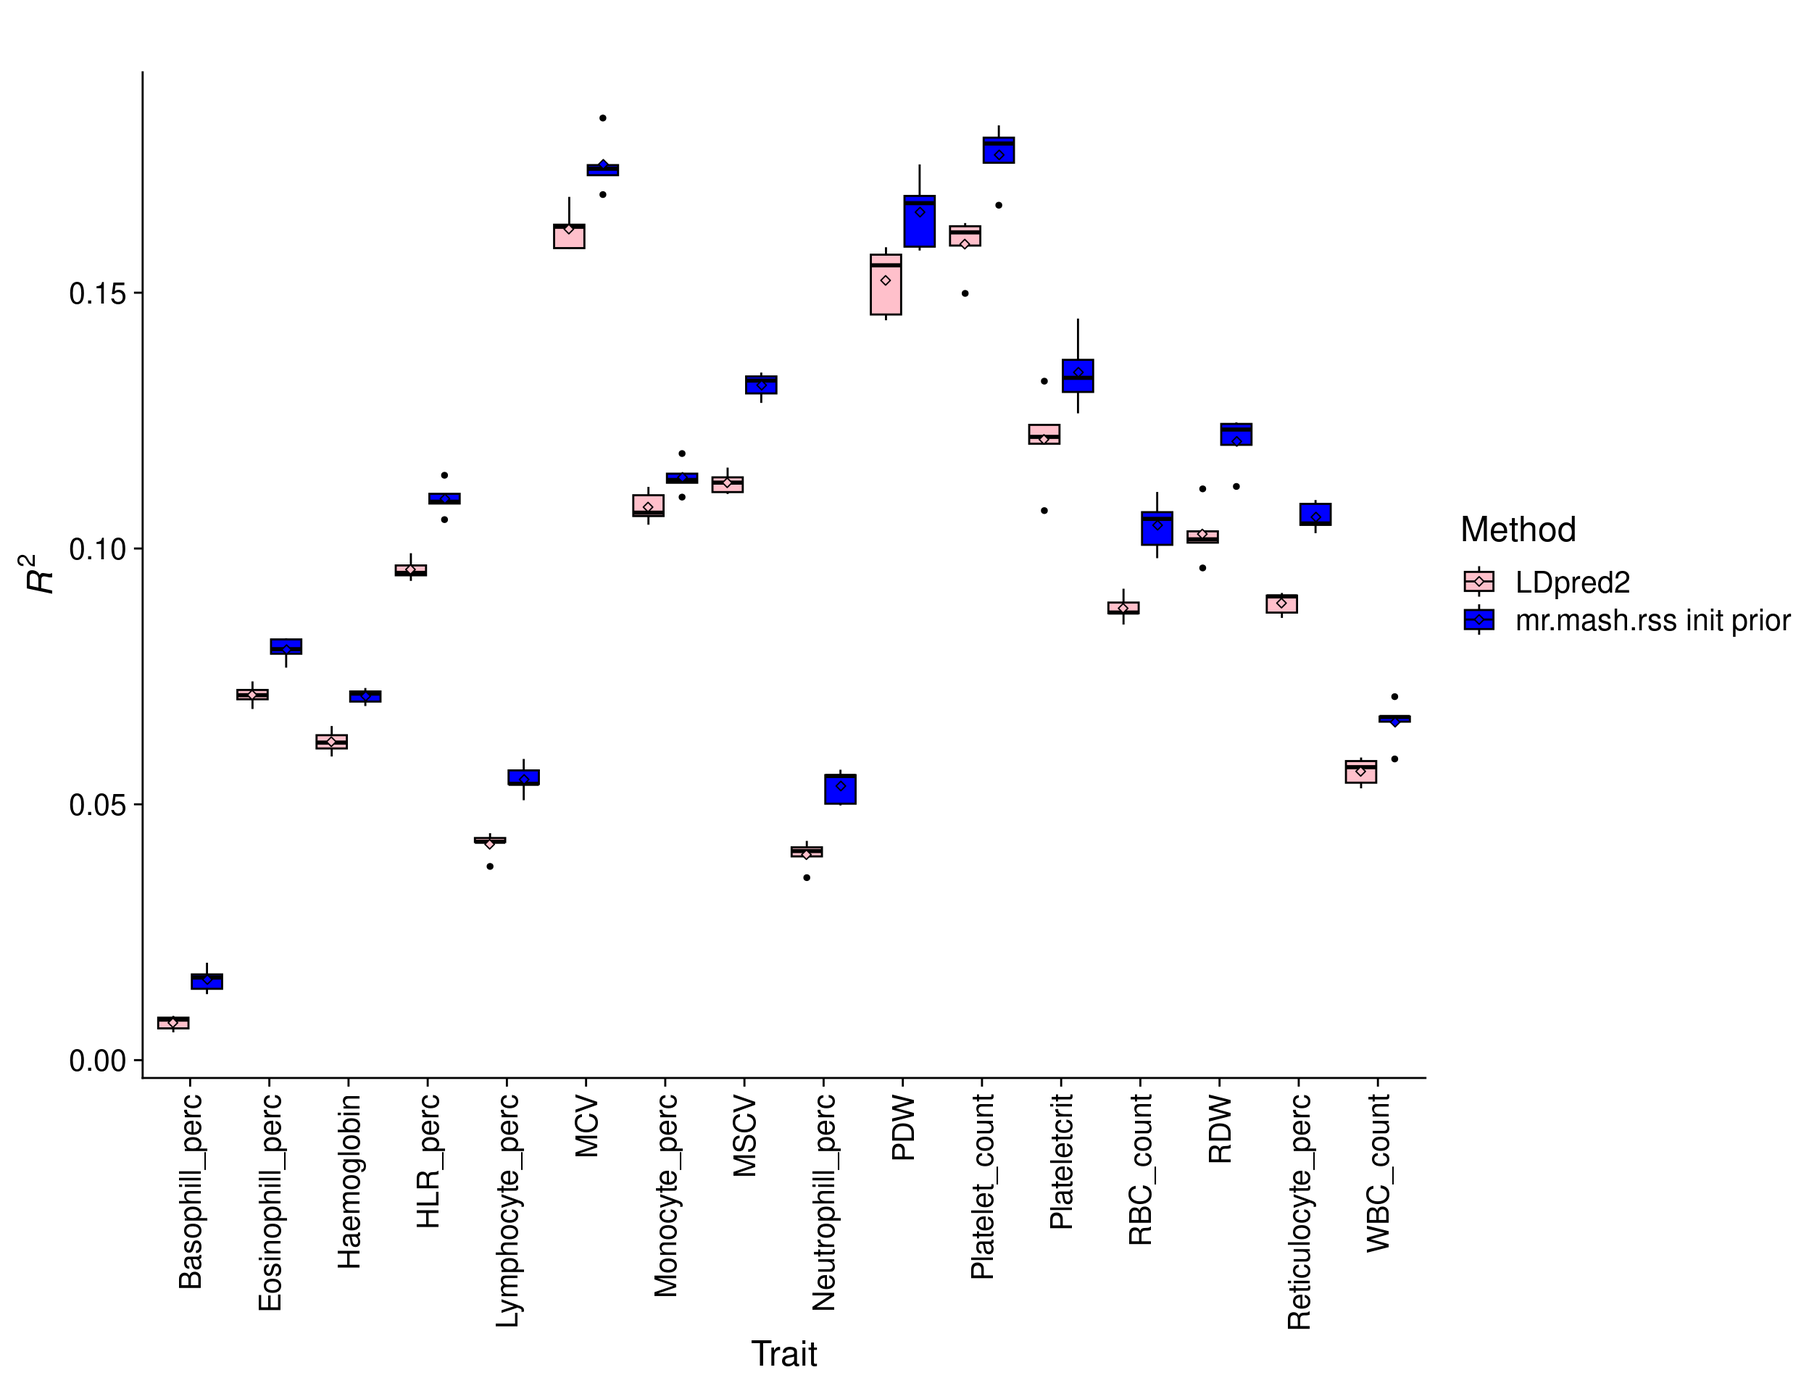
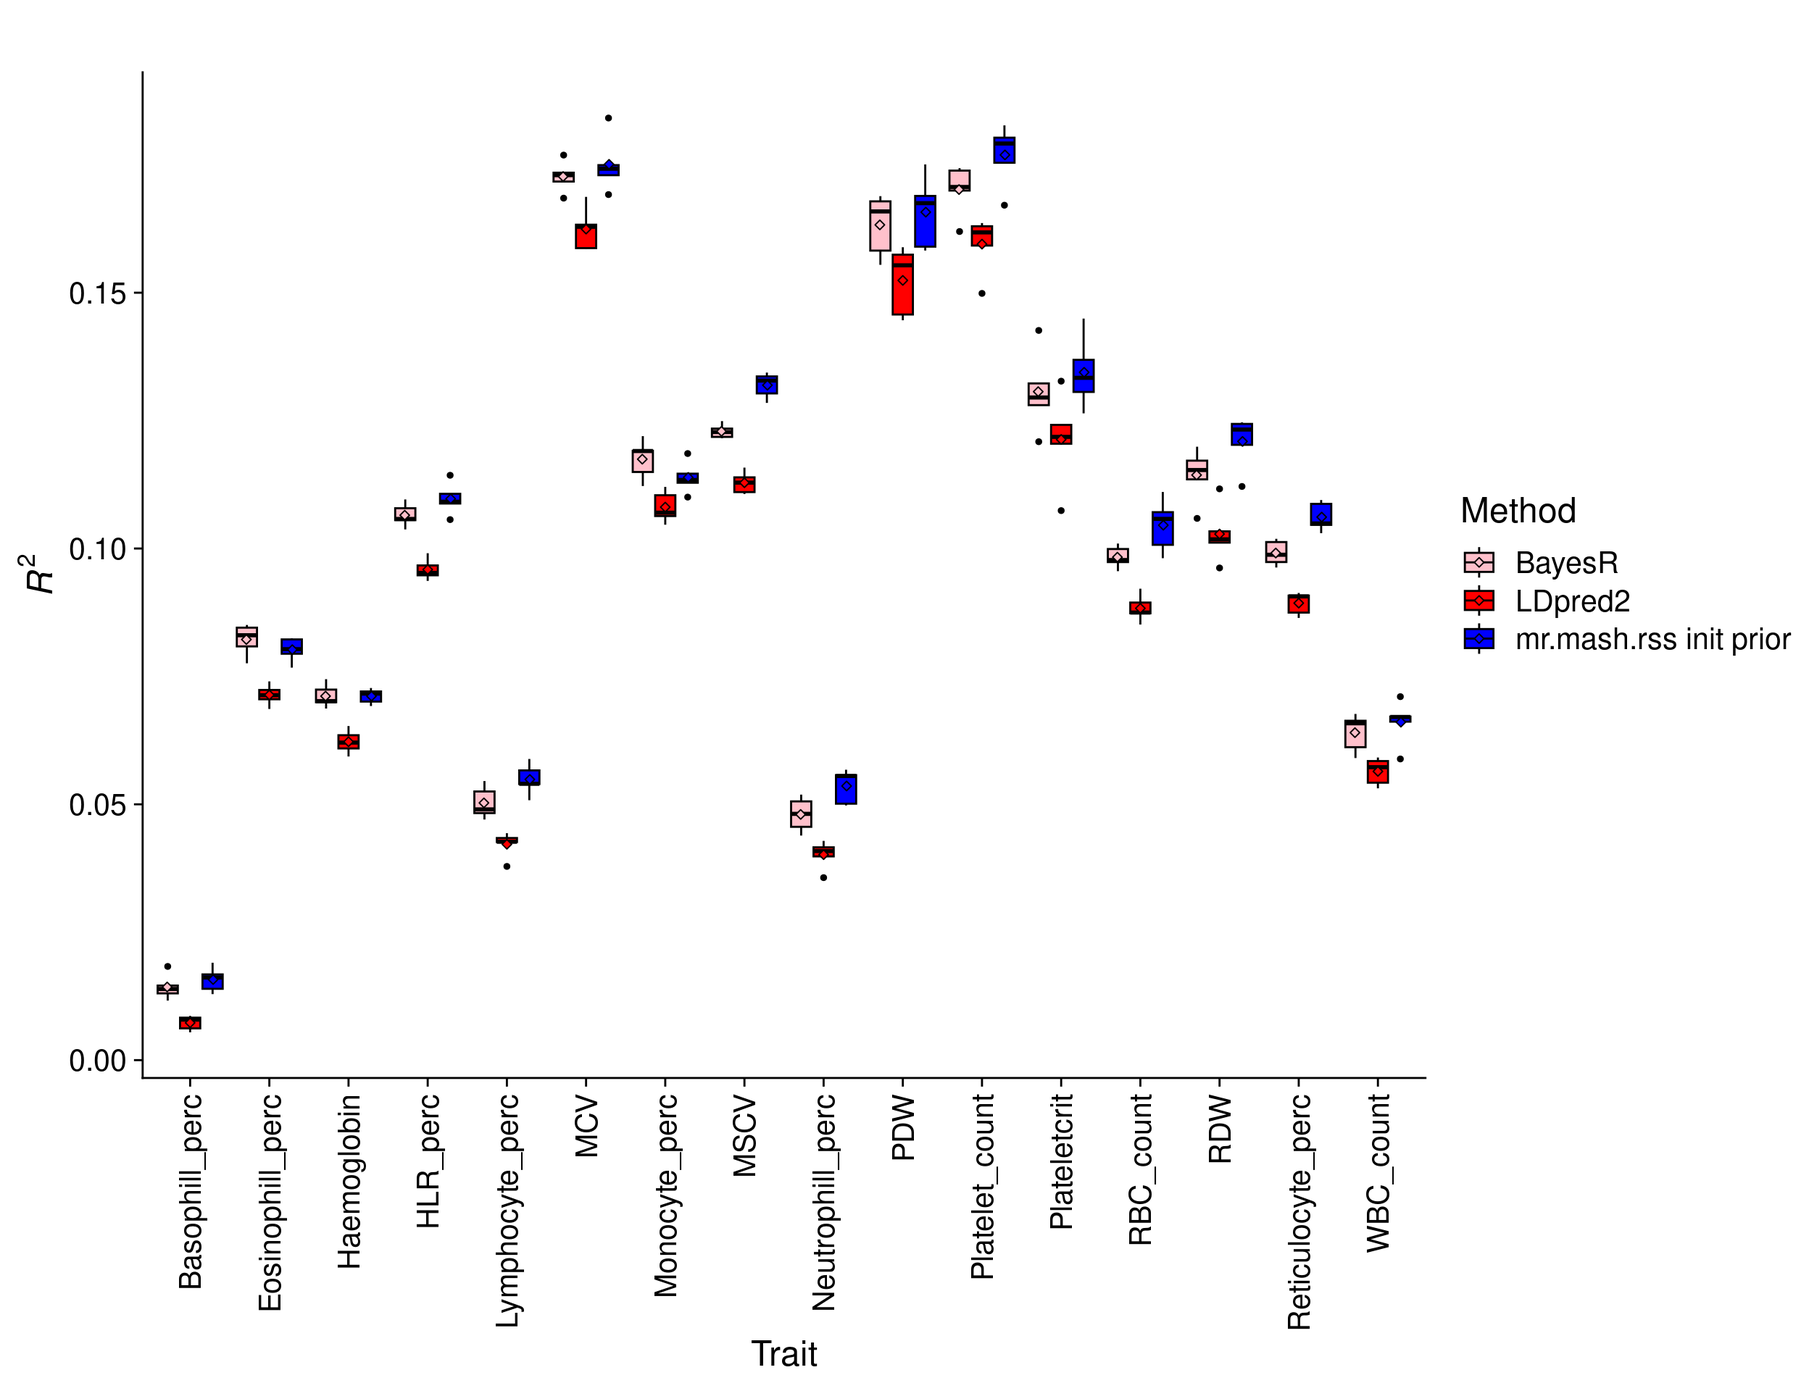
Build site.

diff --git a/docs/ukb_bc_results.html b/docs/ukb_bc_results.html
@@ -11,7 +11,7 @@
 
 <meta name="author" content="Fabio Morgante &amp; Deborah Kunkel" />
 
-<meta name="date" content="2024-02-04" />
+<meta name="date" content="2024-02-13" />
 
 <title>Analysis of blood cell traits in UK Biobank</title>
 
@@ -374,7 +374,7 @@ div.tocify {
 <h1 class="title toc-ignore">Analysis of blood cell traits in UK
 Biobank</h1>
 <h4 class="author">Fabio Morgante &amp; Deborah Kunkel</h4>
-<h4 class="date">February 04, 2024</h4>
+<h4 class="date">February 13, 2024</h4>
 
 </div>
 
@@ -403,7 +403,7 @@ class="glyphicon glyphicon-ok text-success" aria-hidden="true"></span>
 <div class="tab-content">
 <div id="summary" class="tab-pane fade in active">
 <p>
-<strong>Last updated:</strong> 2024-02-04
+<strong>Last updated:</strong> 2024-02-13
 </p>
 <p>
 <strong>Checks:</strong> <span
@@ -534,15 +534,15 @@ project makes it easier to run your code on other machines.</p>
 <div class="panel panel-default">
 <div class="panel-heading">
 <p class="panel-title">
-<a data-toggle="collapse" data-parent="#workflowr-checks" href="#strongRepositoryversionstrongahrefhttpsgithubcommorgantelabmrmashrssanalysistree36dc3cfd44741d8dc17962ba00b2850bf7065669targetblank36dc3cfa">
+<a data-toggle="collapse" data-parent="#workflowr-checks" href="#strongRepositoryversionstrongahrefhttpsgithubcommorgantelabmrmashrssanalysistree9383eec5b7094e531fe07800531ea3103b8e4e44targetblank9383eeca">
 <span class="glyphicon glyphicon-ok text-success"
 aria-hidden="true"></span> <strong>Repository version:</strong>
-<a href="https://github.com/morgantelab/mr_mash_rss_analysis/tree/36dc3cfd44741d8dc17962ba00b2850bf7065669" target="_blank">36dc3cf</a>
+<a href="https://github.com/morgantelab/mr_mash_rss_analysis/tree/9383eec5b7094e531fe07800531ea3103b8e4e44" target="_blank">9383eec</a>
 </a>
 </p>
 </div>
 <div
[2 lines of base64/hex data omitted]
 class="panel-collapse collapse">
 <div class="panel-body">
 <p>
@@ -552,7 +552,7 @@ reproducibility.
 </p>
 <p>
 The results in this page were generated with repository version
-<a href="https://github.com/morgantelab/mr_mash_rss_analysis/tree/36dc3cfd44741d8dc17962ba00b2850bf7065669" target="_blank">36dc3cf</a>.
+<a href="https://github.com/morgantelab/mr_mash_rss_analysis/tree/9383eec5b7094e531fe07800531ea3103b8e4e44" target="_blank">9383eec</a>.
 See the <em>Past versions</em> tab to see a history of the changes made
 to the R Markdown and HTML files.
 </p>
@@ -590,6 +590,9 @@ Untracked files:
     Untracked:  scripts/7_run_compute_residual_cor_all_chr_bc_ukb.sbatch
     Untracked:  scripts/run_adjust_LD_test.sbatch
     Untracked:  scripts/run_fit_kriging_rss_by_chr_and_trait_bc_ukb.sbatch
+
+Unstaged changes:
+    Modified:   scripts/12_75_run_fit_mrmashrss_sparse_LD_V_all_chr_init_prior_finemapped_by_chr_bc_sampled_ukb.sbatch
 
 </code></pre>
 <p>
@@ -635,6 +638,57 @@ Message
 </tr>
 </thead>
 <tbody>
+<tr>
+<td>
+Rmd
+</td>
+<td>
+<a href="https://github.com/morgantelab/mr_mash_rss_analysis/blob/9383eec5b7094e531fe07800531ea3103b8e4e44/analysis/ukb_bc_results.Rmd" target="_blank">9383eec</a>
+</td>
+<td>
+fmorgante
+</td>
+<td>
+2024-02-13
+</td>
+<td>
+Add BayesR results with small sample size
+</td>
+</tr>
+<tr>
+<td>
+Rmd
+</td>
+<td>
+<a href="https://github.com/morgantelab/mr_mash_rss_analysis/blob/adb9a12b1fa3c4419cf04ff5536785aad04c615c/analysis/ukb_bc_results.Rmd" target="_blank">adb9a12</a>
+</td>
+<td>
+fmorgante
+</td>
+<td>
+2024-02-09
+</td>
+<td>
+Allow for mr.mash.rss to be initialized using any other method
+</td>
+</tr>
+<tr>
+<td>
+html
+</td>
+<td>
+<a href="https://rawcdn.githack.com/morgantelab/mr_mash_rss_analysis/60889dd871514919b74d43907d52d9ee47e06821/docs/ukb_bc_results.html" target="_blank">60889dd</a>
+</td>
+<td>
+fmorgante
+</td>
+<td>
+2024-02-04
+</td>
+<td>
+Build site.
+</td>
+</tr>
 <tr>
 <td>
 Rmd
@@ -1090,11 +1144,13 @@ for(i in 1:5){
     dat_mrmash_init &lt;- rbind(dat_mrmash_init, readRDS(paste0(prefix, &quot;_mr_mash_rss_sparse_LD_V_all_chr_init_pred_acc_&quot;, i, &quot;.rds&quot;))$r2)
     dat_mrmash_init_fm_prior &lt;- rbind(dat_mrmash_init_fm_prior, readRDS(paste0(prefix, &quot;_mr_mash_rss_sparse_LD_V_all_chr_init_prior_finemapped_pred_acc_&quot;, i, &quot;.rds&quot;))$r2)
     dat_ldpred2 &lt;- rbind(dat_ldpred2, readRDS(paste0(prefix, &quot;_ldpred2_auto_pred_acc_&quot;, i, &quot;.rds&quot;))$r2)
+    dat_bayesR &lt;- rbind(dat_bayesR, readRDS(paste0(prefix, &quot;_bayesR_pred_acc_&quot;, i, &quot;.rds&quot;))$r2)
   } else {
     dat_mrmash &lt;- readRDS(paste0(prefix, &quot;_mr_mash_rss_sparse_LD_V_all_chr_pred_acc_&quot;, i, &quot;.rds&quot;))$r2
     dat_mrmash_init &lt;- readRDS(paste0(prefix, &quot;_mr_mash_rss_sparse_LD_V_all_chr_init_pred_acc_&quot;, i, &quot;.rds&quot;))$r2
     dat_mrmash_init_fm_prior &lt;- readRDS(paste0(prefix, &quot;_mr_mash_rss_sparse_LD_V_all_chr_init_prior_finemapped_pred_acc_&quot;, i, &quot;.rds&quot;))$r2
     dat_ldpred2 &lt;- readRDS(paste0(prefix, &quot;_ldpred2_auto_pred_acc_&quot;, i, &quot;.rds&quot;))$r2
+    dat_bayesR &lt;- readRDS(paste0(prefix, &quot;_bayesR_pred_acc_&quot;, i, &quot;.rds&quot;))$r2
   }
 }
 
@@ -1102,29 +1158,34 @@ means_mrmash &lt;- colMeans(dat_mrmash)
 means_mrmash_init &lt;- colMeans(dat_mrmash_init)
 means_mrmash_init_fm_prior &lt;- colMeans(dat_mrmash_init_fm_prior)
 means_ldpred2 &lt;- colMeans(dat_ldpred2)
+means_bayesR &lt;- colMeans(dat_bayesR)
 
 perc_change &lt;- ((means_mrmash_init-means_ldpred2)/means_ldpred2)*100
 perc_change_fm_prior &lt;- ((means_mrmash_init_fm_prior-means_ldpred2)/means_ldpred2)*100
+perc_change_bayesR_fm_prior &lt;- ((means_mrmash_init_fm_prior-means_bayesR)/means_bayesR)*100
 
 pheno &lt;- readRDS(&quot;data/phenotypes/ukb_cleaned_bc_adjusted_pheno_test_1.rds&quot;)
 
 names(perc_change) &lt;- colnames(pheno)
 names(perc_change_fm_prior) &lt;- colnames(pheno)
+names(perc_change_bayesR_fm_prior) &lt;- colnames(pheno)
 
 linez &lt;- data.frame(trait=colnames(pheno),
                     h2=colMeans(dat_ldsc))
 
-r2 &lt;- c(as.vector(dat_mrmash), as.vector(dat_mrmash_init), as.vector(dat_mrmash_init_fm_prior), as.vector(dat_ldpred2))
-method &lt;- rep(c(&quot;mr_mash_rss&quot;, &quot;mr_mash_rss_init&quot;, &quot;mr_mash_rss_init_fm_prior&quot;, &quot;ldpred2_auto&quot;), each=80)
+r2 &lt;- c(as.vector(dat_mrmash), as.vector(dat_mrmash_init), as.vector(dat_mrmash_init_fm_prior), 
+        as.vector(dat_ldpred2), as.vector(dat_bayesR))
+method &lt;- rep(c(&quot;mr_mash_rss&quot;, &quot;mr_mash_rss_init&quot;, &quot;mr_mash_rss_init_fm_prior&quot;, &quot;ldpred2_auto&quot;, &quot;bayesR&quot;), each=80)
 trait &lt;- rep(colnames(pheno), each=5)
 
 res &lt;- data.frame(method, trait, r2)
 
-res &lt;- res[which(res$method %in% c(&quot;ldpred2_auto&quot;, &quot;mr_mash_rss&quot;, &quot;mr_mash_rss_init&quot;, &quot;mr_mash_rss_init_fm_prior&quot;)), ]
+res &lt;- res[which(res$method %in% c(&quot;bayesR&quot;, &quot;ldpred2_auto&quot;, &quot;mr_mash_rss&quot;, &quot;mr_mash_rss_init&quot;, &quot;mr_mash_rss_init_fm_prior&quot;)), ]
 
 res &lt;- transform(res,
-                 method=factor(method, levels=c(&quot;ldpred2_auto&quot;, &quot;mr_mash_rss&quot;, &quot;mr_mash_rss_init&quot;, &quot;mr_mash_rss_init_fm_prior&quot;),
-                               labels=c(&quot;LDpred2&quot;, &quot;mr.mash.rss&quot;, &quot;mr.mash.rss init&quot;, &quot;mr.mash.rss init prior&quot;)),
+                 method=factor(method, levels=c(&quot;bayesR&quot;, &quot;ldpred2_auto&quot;, 
+                                                &quot;mr_mash_rss&quot;, &quot;mr_mash_rss_init&quot;, &quot;mr_mash_rss_init_fm_prior&quot;),
+                               labels=c(&quot;BayesR&quot;, &quot;LDpred2&quot;, &quot;mr.mash.rss&quot;, &quot;mr.mash.rss init&quot;, &quot;mr.mash.rss init prior&quot;)),
                  trait=factor(trait))
 
 p_methods_shared &lt;- ggplot(res, aes(x = trait, y = r2, fill = method)) +
@@ -1132,7 +1193,7 @@ p_methods_shared &lt;- ggplot(res, aes(x = trait, y = r2, fill = method)) +
   stat_summary(fun=mean, geom=&quot;point&quot;, shape=23,
                position = position_dodge2(width = 0.87,   
                                           preserve = &quot;single&quot;)) +
-  scale_fill_manual(values = c(&quot;pink&quot;, &quot;red&quot;, &quot;green&quot;, &quot;blue&quot;)) +
+  scale_fill_manual(values = c(&quot;pink&quot;, &quot;red&quot;, &quot;green&quot;, &quot;orange&quot;, &quot;blue&quot;)) +
   labs(x = &quot;Trait&quot;, y = expression(italic(R)^2), fill=&quot;Method&quot;, title=&quot;&quot;) + 
   # facet_grid(~trait, scales=&quot;free_x&quot;) +
   # geom_hline(aes(yintercept = h2), linez) +
@@ -1141,69 +1202,106 @@ p_methods_shared &lt;- ggplot(res, aes(x = trait, y = r2, fill = method)) +
 
 print(p_methods_shared)</code></pre>
 <p><img src="figure/ukb_bc_results.Rmd/results_244K_accuracy-1.png" width="1248" style="display: block; margin: auto;" /></p>
+<p>
+<button type="button" class="btn btn-default btn-xs btn-workflowr btn-workflowr-fig" data-toggle="collapse" data-target="#fig-results_244K_accuracy-1">
+Past versions of results_244K_accuracy-1.png
+</button>
+</p>
+<div id="fig-results_244K_accuracy-1" class="collapse">
+<div class="table-responsive">
+<table class="table table-condensed table-hover">
+<thead>
+<tr>
+<th>
+Version
+</th>
+<th>
+Author
+</th>
+<th>
+Date
+</th>
+</tr>
+</thead>
+<tbody>
+<tr>
+<td>
+<a href="https://github.com/morgantelab/mr_mash_rss_analysis/blob/60889dd871514919b74d43907d52d9ee47e06821/docs/figure/ukb_bc_results.Rmd/results_244K_accuracy-1.png" target="_blank">60889dd</a>
+</td>
+<td>
+fmorgante
+</td>
+<td>
+2024-02-04
+</td>
+</tr>
+</tbody>
+</table>
+</div>
+</div>
 <!-- The percentage change in $R^2$ of *mr.mash.rss init* over *LDpred2* by trait is:  -->
 <!-- ```{r perc_change} -->
 <!-- perc_change -->
 <!-- ``` -->
 <p>The percentage change in <span class="math inline">\(R^2\)</span> of
-<em>mr.mash.rss init prior</em> over <em>LDpred2</em> by trait is:</p>
-<pre class="r"><code>perc_change_fm_prior</code></pre>
+<em>mr.mash.rss init prior</em> over <em>BayesR</em> by trait is:</p>
+<pre class="r"><code>perc_change_bayesR_fm_prior</code></pre>
 <pre><code>        WBC_count         RBC_count       Haemoglobin               MCV 
-        2.4241474         2.5306770         0.3568875         2.3379550 
+        1.0764560         1.0705411        -1.3652685         1.3731148 
               RDW    Platelet_count      Plateletcrit               PDW 
-        4.7172863         2.0194201         1.6206067         1.7425206 
+        3.1868160         1.1206196         0.5615176         0.6856654 
   Lymphocyte_perc     Monocyte_perc  Neutrophill_perc  Eosinophill_perc 
-        7.0857193         3.0207773        10.0738061        -0.9699018 
+        5.2227381         1.0893654         7.4217879        -2.2419269 
    Basophill_perc Reticulocyte_perc              MSCV          HLR_perc 
-       31.7807615         6.2438722         6.3090459         4.1308564 </code></pre>
+       13.0740144         3.4547098         4.6498409         1.4944277 </code></pre>
 <!-- The overall percentage change in $R^2$ of *mr.mash.rss init* over *LDpred2* across traits is 5.1217612. -->
 <p>The overall percentage change in <span
 class="math inline">\(R^2\)</span> of <em>mr.mash.rss init prior</em>
-over <em>LDpred2</em> across traits is 5.3390273.</p>
-<p>The results show that <em>mr.mash.rss init</em> improves accuracy
-over <em>LDpred2</em> for all but one trait. However, in that trait the
-performance is very similar. In general, the improvement in performance
-is in line with other papers such as the <a
-href="https://www.nature.com/articles/s41467-019-09718-5">PRS-CS
-paper</a>.</p>
+over <em>BayesR</em> across traits is 2.6171512.</p>
+<!-- The results show that *mr.mash.rss init* improves accuracy over *LDpred2* for all but one trait. However, -->
+<!-- in that trait the performance is very similar. In general, the improvement in performance is in line with -->
+<!-- other papers such as the [PRS-CS paper](https://www.nature.com/articles/s41467-019-09718-5). -->
 </div>
 <div id="results-with-75k-individuals" class="section level2">
 <h2>Results with 75K individuals</h2>
 <p>We hypothesized that the advantage of a multivariate analysis would
 be more pronounced with a smaller sample size. Thus, we randomly sampled
 75,000 individuals from the 244,000 and repeated the analyses above.</p>
-<pre class="r"><code>dat_ldsc &lt;- matrix(as.numeric(NA), 5, 16)
-
-for(i in 1:5){
+<pre class="r"><code>for(i in 1:5){
   if(i&gt;1){
     dat_mrmash_init_fm_prior &lt;- rbind(dat_mrmash_init_fm_prior, readRDS(paste0(prefix_2, &quot;_mr_mash_rss_sparse_LD_V_all_chr_init_prior_finemapped_pred_acc_&quot;, i, &quot;.rds&quot;))$r2)
     dat_ldpred2 &lt;- rbind(dat_ldpred2, readRDS(paste0(prefix_2, &quot;_ldpred2_auto_pred_acc_&quot;, i, &quot;.rds&quot;))$r2)
+    dat_bayesR &lt;- rbind(dat_bayesR, readRDS(paste0(prefix_2, &quot;_bayesR_pred_acc_&quot;, i, &quot;.rds&quot;))$r2)
   } else {
     dat_mrmash_init_fm_prior &lt;- readRDS(paste0(prefix_2, &quot;_mr_mash_rss_sparse_LD_V_all_chr_init_prior_finemapped_pred_acc_&quot;, i, &quot;.rds&quot;))$r2
     dat_ldpred2 &lt;- readRDS(paste0(prefix_2, &quot;_ldpred2_auto_pred_acc_&quot;, i, &quot;.rds&quot;))$r2
+    dat_bayesR &lt;- readRDS(paste0(prefix_2, &quot;_bayesR_pred_acc_&quot;, i, &quot;.rds&quot;))$r2
   }
 }
 
 means_mrmash_init_fm_prior &lt;- colMeans(dat_mrmash_init_fm_prior)
 means_ldpred2 &lt;- colMeans(dat_ldpred2)
+means_bayesR &lt;- colMeans(dat_bayesR)
 
 perc_change_fm_prior &lt;- ((means_mrmash_init_fm_prior-means_ldpred2)/means_ldpred2)*100
+perc_change_bayesR_fm_prior &lt;- ((means_mrmash_init_fm_prior-means_bayesR)/means_bayesR)*100
 
 pheno &lt;- readRDS(&quot;data/phenotypes/ukb_cleaned_bc_adjusted_pheno_test_1.rds&quot;)
 
 names(perc_change_fm_prior) &lt;- colnames(pheno)
+names(perc_change_bayesR_fm_prior) &lt;- colnames(pheno)
 
-r2 &lt;- c(as.vector(dat_mrmash_init_fm_prior), as.vector(dat_ldpred2))
-method &lt;- rep(c(&quot;mr_mash_rss_init_fm_prior&quot;, &quot;ldpred2_auto&quot;), each=80)
+r2 &lt;- c(as.vector(dat_mrmash_init_fm_prior), as.vector(dat_ldpred2), as.vector(dat_bayesR))
+method &lt;- rep(c(&quot;mr_mash_rss_init_fm_prior&quot;, &quot;ldpred2_auto&quot;, &quot;bayesR&quot;), each=80)
 trait &lt;- rep(colnames(pheno), each=5)
 
 res &lt;- data.frame(method, trait, r2)
 
-res &lt;- res[which(res$method %in% c(&quot;ldpred2_auto&quot;, &quot;mr_mash_rss_init_fm_prior&quot;)), ]
+res &lt;- res[which(res$method %in% c(&quot;bayesR&quot;, &quot;ldpred2_auto&quot;, &quot;mr_mash_rss_init_fm_prior&quot;)), ]
 
 res &lt;- transform(res,
-                 method=factor(method, levels=c(&quot;ldpred2_auto&quot;, &quot;mr_mash_rss_init_fm_prior&quot;),
-                               labels=c(&quot;LDpred2&quot;, &quot;mr.mash.rss init prior&quot;)),
+                 method=factor(method, levels=c(&quot;bayesR&quot;, &quot;ldpred2_auto&quot;, &quot;mr_mash_rss_init_fm_prior&quot;),
+                               labels=c(&quot;BayesR&quot;, &quot;LDpred2&quot;, &quot;mr.mash.rss init prior&quot;)),
                  trait=factor(trait))
 
 p_methods_shared &lt;- ggplot(res, aes(x = trait, y = r2, fill = method)) +
@@ -1211,7 +1309,7 @@ p_methods_shared &lt;- ggplot(res, aes(x = trait, y = r2, fill = method)) +
   stat_summary(fun=mean, geom=&quot;point&quot;, shape=23,
                position = position_dodge2(width = 0.87,   
                                           preserve = &quot;single&quot;)) +
-  scale_fill_manual(values = c(&quot;pink&quot;, &quot;blue&quot;)) +
+  scale_fill_manual(values = c(&quot;pink&quot;, &quot;red&quot;, &quot;blue&quot;)) +
   labs(x = &quot;Trait&quot;, y = expression(italic(R)^2), fill=&quot;Method&quot;, title=&quot;&quot;) + 
   # facet_grid(~trait, scales=&quot;free_x&quot;) +
   # geom_hline(aes(yintercept = h2), linez) +
@@ -1220,24 +1318,59 @@ p_methods_shared &lt;- ggplot(res, aes(x = trait, y = r2, fill = method)) +
 
 print(p_methods_shared)</code></pre>
 <p><img src="figure/ukb_bc_results.Rmd/results_75K_accuracy-1.png" width="1248" style="display: block; margin: auto;" /></p>
+<p>
+<button type="button" class="btn btn-default btn-xs btn-workflowr btn-workflowr-fig" data-toggle="collapse" data-target="#fig-results_75K_accuracy-1">
+Past versions of results_75K_accuracy-1.png
+</button>
+</p>
+<div id="fig-results_75K_accuracy-1" class="collapse">
+<div class="table-responsive">
+<table class="table table-condensed table-hover">
+<thead>
+<tr>
+<th>
+Version
+</th>
+<th>
+Author
+</th>
+<th>
+Date
+</th>
+</tr>
+</thead>
+<tbody>
+<tr>
+<td>
+<a href="https://github.com/morgantelab/mr_mash_rss_analysis/blob/60889dd871514919b74d43907d52d9ee47e06821/docs/figure/ukb_bc_results.Rmd/results_75K_accuracy-1.png" target="_blank">60889dd</a>
+</td>
+<td>
+fmorgante
+</td>
+<td>
+2024-02-04
+</td>
+</tr>
+</tbody>
+</table>
+</div>
+</div>
 <p>The percentage change in <span class="math inline">\(R^2\)</span> of
-<em>mr.mash.rss init prior</em> over <em>LDpred2</em> by trait is:</p>
-<pre class="r"><code>perc_change_fm_prior</code></pre>
+<em>mr.mash.rss init prior</em> over <em>BayesR</em> by trait is:</p>
+<pre class="r"><code>perc_change_bayesR_fm_prior</code></pre>
 <pre><code>        WBC_count         RBC_count       Haemoglobin               MCV 
-        17.037136         18.394163         14.327925          7.790081 
+     3.2036534199      6.3578037992     -0.0001688431      1.3798038543 
               RDW    Platelet_count      Plateletcrit               PDW 
-        17.600836         10.933460         10.818435          8.755323 
+     5.7435803143      3.9794938660      2.8926057502      1.5244281537 
   Lymphocyte_perc     Monocyte_perc  Neutrophill_perc  Eosinophill_perc 
-        30.020449          5.372682         33.417410         12.405572 
+     9.1073094157     -3.0325083273     11.5823290872     -2.4125973315 
    Basophill_perc Reticulocyte_perc              MSCV          HLR_perc 
-       115.749354         18.822531         16.895025         14.423909 </code></pre>
+    10.2058431304      7.0892935140      7.3419703787      3.0189283421 </code></pre>
 <p>The overall percentage change in <span
 class="math inline">\(R^2\)</span> of <em>mr.mash.rss init prior</em>
-over <em>LDpred2</em> across traits is 22.0477682.</p>
-<p>The results show that <em>mr.mash.rss init</em> improves accuracy
-over <em>LDpred2</em> more substantially with a smaller sample size,
-highlighting the scenario where a multivariate analysis is really
-advantageous.</p>
+over <em>BayesR</em> across traits is 4.2488605.</p>
+<!-- The results show that *mr.mash.rss init* improves accuracy over *LDpred2* more substantially with a smaller -->
+<!-- sample size, highlighting the scenario where a multivariate analysis is really advantageous. -->
 <br>
 <p>
 <button type="button" class="btn btn-default btn-workflowr btn-workflowr-sessioninfo" data-toggle="collapse" data-target="#workflowr-sessioninfo" style="display: block;">
